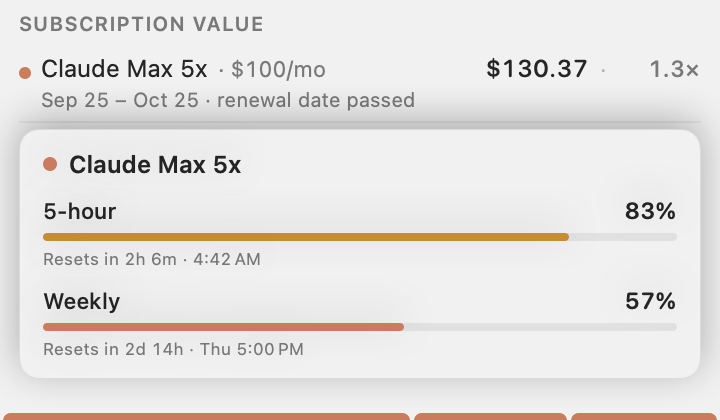
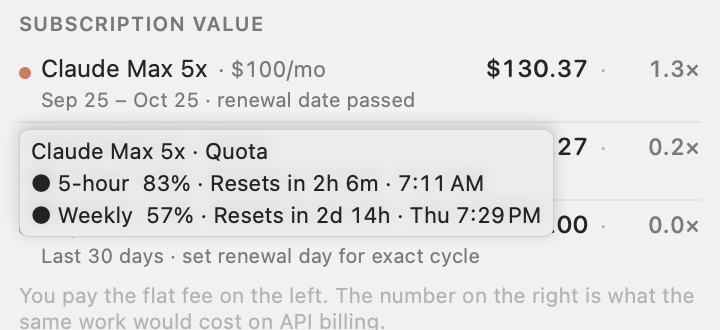
Quota hover card: match the system tooltip style used elsewhere

diff --git a/ui/Sources/Kanjo/Views/OverviewView.swift b/ui/Sources/Kanjo/Views/OverviewView.swift
@@ -528,7 +528,7 @@ private struct QuotaPlacement: View {
                     Color.clear.onAppear { cardHeight = c.size.height }
                         .onChange(of: c.size.height) { cardHeight = $0 }
                 })
-                .frame(width: geo.size.width - 2 * Metrics.listInset)
+                .frame(maxWidth: geo.size.width - 2 * Metrics.listInset, alignment: .leading)
                 .offset(x: Metrics.listInset, y: upward ? -(cardHeight + gap) : frame.height + gap)
         }
         .allowsHitTesting(false)
@@ -536,75 +536,32 @@ private struct QuotaPlacement: View {
     }
 }
 
-/// 额度卡：agent 色点 + 档位名做标题；每个窗口一行：细进度条、右对齐百分比、重置时间。
+/// 额度卡：和马赛克等处的系统 tooltip 同一个样子（浅灰底、细边、tooltip 字体、「●」列表），
+/// 但它是视图本身，所以能延迟出现、放得下时贴在行下方，也能在截图路由里固定展开。
 private struct QuotaCard: View {
     let agent: String
     let planLabel: String
     let rows: [QuotaRow]
 
     var body: some View {
-        VStack(alignment: .leading, spacing: 9) {
-            HStack(spacing: 6) {
-                AgentDot(agent: agent, size: 7)
-                Text(planLabel).font(.system(size: 12, weight: .semibold)).lineLimit(1)
-            }
+        VStack(alignment: .leading, spacing: 2) {
+            Text("\(planLabel) · \(L10n.tr("overview.quota.title"))")
             ForEach(rows) { r in
-                VStack(alignment: .leading, spacing: 4) {
-                    HStack(alignment: .firstTextBaseline) {
-                        Text(r.title).font(.system(size: 11, weight: .medium))
-                        Spacer(minLength: 8)
-                        Text(r.percent.map { "\(Int($0.rounded()))%" } ?? "—")
-                            .font(.system(size: 11.5, weight: .semibold, design: .rounded))
-                            .monospacedDigit()
-                            .foregroundStyle(r.percent == nil ? AnyShapeStyle(.tertiary) : AnyShapeStyle(.primary))
-                    }
-                    QuotaBar(fraction: (r.percent ?? 0) / 100, color: barColor(r.percent))
-                    Text(r.detail)
-                        .font(.system(size: 10))
-                        .monospacedDigit()
-                        .foregroundStyle(.secondary)
-                        .lineLimit(1)
-                        .minimumScaleFactor(0.85)
-                }
+                Text("● \(r.title)  \(r.percent.map { "\(Int($0.rounded()))%" } ?? "—") · \(r.detail)")
             }
         }
-        .padding(.horizontal, 12)
-        .padding(.vertical, 10)
-        .frame(maxWidth: .infinity, alignment: .leading)
-        .background(
-            RoundedRectangle(cornerRadius: 10, style: .continuous)
-                .fill(.regularMaterial)
-                .background(RoundedRectangle(cornerRadius: 10, style: .continuous)
-                    .fill(Color(nsColor: .windowBackgroundColor).opacity(0.85)))
-        )
-        .overlay(RoundedRectangle(cornerRadius: 10, style: .continuous)
-            .strokeBorder(Color.primary.opacity(0.10), lineWidth: 0.5))
-        .shadow(color: .black.opacity(0.18), radius: 10, y: 4)
-    }
-
-    private func barColor(_ percent: Double?) -> Color {
-        switch SubscriptionValue.level(percent) {
-        case .normal: return AgentPalette.color(for: agent)
-        case .warning: return AgentPalette.quotaWarn
-        case .critical: return AgentPalette.bad
-        }
-    }
-}
-
-private struct QuotaBar: View {
-    let fraction: Double
-    let color: Color
-
-    var body: some View {
-        GeometryReader { geo in
-            ZStack(alignment: .leading) {
-                Capsule().fill(Color.primary.opacity(0.08))
-                if fraction > 0 {
-                    Capsule().fill(color).frame(width: max(4, geo.size.width * min(fraction, 1)))
-                }
-            }
-        }
-        .frame(height: 4)
+        .font(Font(NSFont.toolTipsFont(ofSize: 0)))
+        .monospacedDigit()
+        .lineLimit(1)
+        .foregroundStyle(Color(nsColor: .labelColor))
+        .padding(.horizontal, 6)
+        .padding(.vertical, 4)
+        .fixedSize()
+        .background(RoundedRectangle(cornerRadius: 5, style: .continuous)
+            .fill(Color(nsColor: .windowBackgroundColor)))
+        .overlay(RoundedRectangle(cornerRadius: 5, style: .continuous)
+            .strokeBorder(Color.primary.opacity(0.15), lineWidth: 0.5))
+        .shadow(color: .black.opacity(0.18), radius: 4, y: 2)
     }
 }
 

diff --git a/ui/Tests/KanjoTests/SubscriptionTests.swift b/ui/Tests/KanjoTests/SubscriptionTests.swift
@@ -53,17 +53,12 @@ final class SubscriptionTests: KanjoTestCase {
         XCTAssertEqual(SubscriptionValue.quotaRows(nil, timezone: utc), [])
     }
 
-    func testRelativeResetAndLevels() {
+    func testRelativeReset() {
         let now = ReportDates.parseTimestamp("2026-10-24T12:00:00Z")!
         XCTAssertEqual(SubscriptionValue.relative(from: now, to: now.addingTimeInterval(10)), "1 min")
         XCTAssertEqual(SubscriptionValue.relative(from: now, to: now.addingTimeInterval(59 * 60)), "59 min")
         XCTAssertEqual(SubscriptionValue.relative(from: now, to: now.addingTimeInterval(3600)), "1h 0m")
         XCTAssertEqual(SubscriptionValue.relative(from: now, to: now.addingTimeInterval(86400 + 2 * 3600)), "1d 2h")
-        XCTAssertEqual(SubscriptionValue.level(nil), .normal)
-        XCTAssertEqual(SubscriptionValue.level(79.9), .normal)
-        XCTAssertEqual(SubscriptionValue.level(80), .warning)
-        XCTAssertEqual(SubscriptionValue.level(94.9), .warning)
-        XCTAssertEqual(SubscriptionValue.level(95), .critical)
     }
 
     func testResetTextZhHans() {

diff --git a/ui/Sources/KanjoCore/SubscriptionValue.swift b/ui/Sources/KanjoCore/SubscriptionValue.swift
@@ -16,11 +16,6 @@ public struct QuotaRow: Equatable, Identifiable {
     public var detail: String      // 重置文案，或「窗口已结束」
 }
 
-/// 进度条色调：≥ 80% 警示，≥ 95% 才用红色。
-public enum QuotaLevel: Equatable {
-    case normal, warning, critical
-}
-
 public enum SubscriptionValue {
     public static var assumedDayHelp: String {
         L10n.tr("overview.renewal_day_unknown_help")
@@ -99,11 +94,6 @@ public enum SubscriptionValue {
         if minutes < 60 { return L10n.tr("overview.quota.rel_m", minutes) }
         if minutes < 1440 { return L10n.tr("overview.quota.rel_hm", minutes / 60, minutes % 60) }
         return L10n.tr("overview.quota.rel_dh", minutes / 1440, minutes % 1440 / 60)
-    }
-
-    public static func level(_ percent: Double?) -> QuotaLevel {
-        guard let p = percent else { return .normal }
-        return p >= 95 ? .critical : p >= 80 ? .warning : .normal
     }
 
     private static func clampPercent(_ p: Double?) -> Double? {

diff --git a/ui/Sources/Kanjo/Views/Components/AgentPalette.swift b/ui/Sources/Kanjo/Views/Components/AgentPalette.swift
@@ -54,7 +54,6 @@ enum AgentPalette {
     static let goodFill = dynamic(light: 0x2E7D4A, dark: 0x74C98F, lightAlpha: 0.14, darkAlpha: 0.20)
     static let bad = dynamic(light: 0xB3261E, dark: 0xFF8A80)
     static let badFill = dynamic(light: 0xE5484D, dark: 0xE5484D, lightAlpha: 0.10, darkAlpha: 0.18)
-    static let quotaWarn = dynamic(light: 0xD08A12, dark: 0xF0B248)
     static let warnInk = dynamic(light: 0x6E5512, dark: 0xE8CF94)
     static let warnFill = dynamic(light: 0xD9A53A, dark: 0xD9A53A, lightAlpha: 0.16, darkAlpha: 0.18)
 }

diff --git a/CONTRACT.md b/CONTRACT.md
@@ -239,7 +239,7 @@ UI 提供范围切换：`All`、`7d`（含今天的最近 7 个自然日）、`3
 2. 项目列表，按 cost 降序，每行：name、cost、sessions、last_active，以及能看出用了哪些 agent 的标记（色点、色块或小条形均可）。
 3. 项目详情：by_agent、by_model、by_day 时间线、by_branch、sessions_detail 表。
 4. 三个桶各一行，显示数量和金额，即使为 0。
-4.1 **Subscription value 卡**（`subscriptions` 非空时）：每个有订阅的 agent 一行：plan_label、月费、本账期 API 等价用量、倍数（用量 ÷ 月费，月费为 null 时不显示倍数）、`extra_usage_enabled` 为 true 时标「extra usage on」。悬停一行时浮出额度卡（该 agent 有 `quota_windows` 时）：5 小时窗口和周窗口各一行，进度条（≥ 80% 警示色，≥ 95% 红色）、已用百分比、「X 后重置 · 绝对时间」；窗口已结束时显示「—」和「Window ended」。没有额度数据的 agent 不出卡片。卡片固定一句说明：
+4.1 **Subscription value 卡**（`subscriptions` 非空时）：每个有订阅的 agent 一行：plan_label、月费、本账期 API 等价用量、倍数（用量 ÷ 月费，月费为 null 时不显示倍数）、`extra_usage_enabled` 为 true 时标「extra usage on」。悬停一行时浮出额度卡（该 agent 有 `quota_windows` 时，样式同系统 tooltip）：5 小时窗口和周窗口各一行，已用百分比、「X 后重置 · 绝对时间」；窗口已结束时显示「—」和「Window ended」。没有额度数据的 agent 不出卡片。卡片固定一句说明：
    「You pay the flat fee on the left. The number on the right is what the same work would cost on API billing.」不可隐藏。
    项目详情页：对每个有订阅的 agent 显示一行「This repo: N% of your <plan_label> usage this cycle」。
 5. 对账行：`totals.cost` 与各项之和，差异超过 0.01 时高亮。
